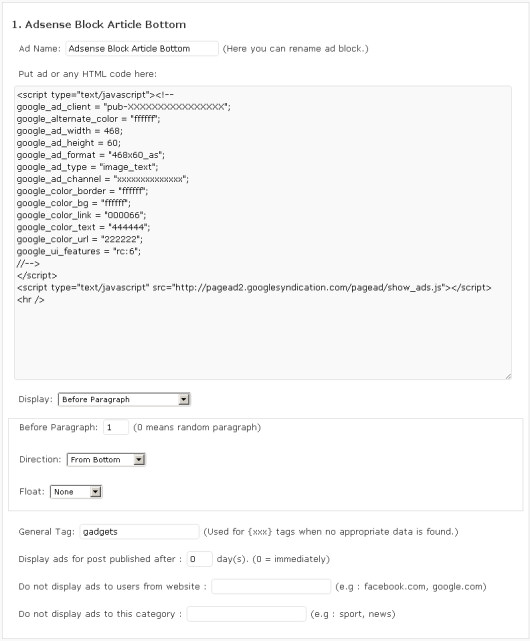
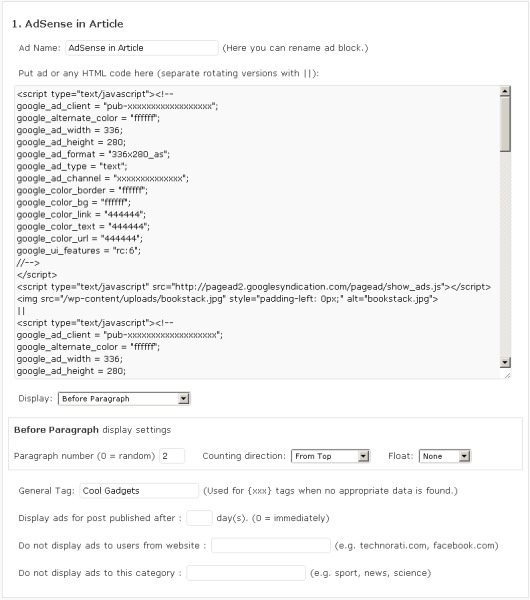
git-svn-id: https://plugins.svn.wordpress.org/ad-inserter/trunk@319086 b8457f37-d9ea-0310-8a92-e5e31aec5664

diff --git a/ad-inserter.php b/ad-inserter.php
@@ -2,8 +2,8 @@
 
 /*
 Plugin Name: Ad Inserter
-Version: 1.0.1
-Description: An elegant solution to put any ad into Wordpress. Simply enter any HTML code and select where and how you want to display it (including Widgets). You can also use {category}, {short_category}, {title}, {short_title} or {smart_tag} for actual post data.
+Version: 1.0.2
+Description: An elegant solution to put any ad into Wordpress. Simply enter any HTML code and select where and how you want to display it (including Widgets). You can also use {category}, {short_category}, {title}, {short_title} or {smart_tag} for actual post data. To rotate different ad versions separate them with ||.
 Author: Igor Funa
 Author URI: http://igorfuna.com/
 Plugin URI: http://igorfuna.com/software/web/ad-inserter-wordpress-plugin
@@ -17,6 +17,9 @@ http://www.mkyong.com/blog/adsense-daemon-wordpress-plugin
 
 /*
 Change Log
+
+Ad Inserter 1.0.2 - 04/12/2010
+- Added support for rotating ads
 
 Ad Inserter 1.0.1 - 17/11/2010
 - Added support for different sidebar implementations

diff --git a/settings.php b/settings.php
@@ -35,7 +35,7 @@ by Igor Funa - <a href="http://igorfuna.com/contact/contact-igor-funa" target="_
       Ad Name:  <input type="text" name="<?php echo $obj->option_ad_name; ?>" value="<?php echo $obj->get_ad_name() ?>" size="40" maxlength="50"/> (Here you can rename ad block.)
    </div>
 	<div style="padding-left:16px;">
-      Put ad or any HTML code here:
+      Put ad or any HTML code here (separate rotating versions with ||):
 	</div>
 	<div style="padding:8px;">
       <textarea name="<?php echo $obj->option_ad_data; ?>" rows="24" cols="90" style="background-color:#F9F9F9;"><?php echo $obj->get_ad_data(); ?></textarea>
